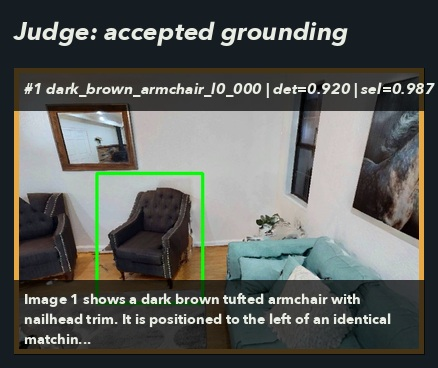
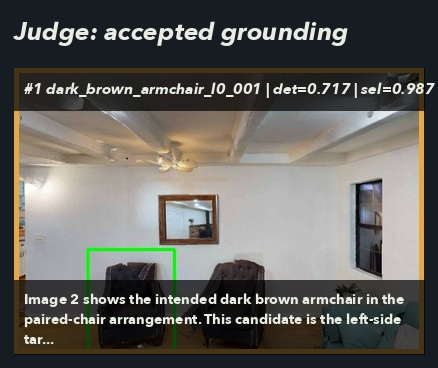
Correct HM3D armchair demo selection

diff --git a/static/demo/full-hm3d-armchair-hard/index.html b/static/demo/full-hm3d-armchair-hard/index.html
@@ -476,7 +476,7 @@
   </main>
 
   <script>
-    const TRACE = {"title": "Finder Full-Loop Grounding Demo", "query": "dark brown armchair to the left of the matching chair", "target": "dark_brown_armchair", "phrases": ["dark_brown_armchair", "dark brown armchair"], "route_grid": "assets/finder_routed_frames.jpg", "topdown_map": "assets/routing_topdown.png", "sam_grid": "assets/detect_candidate_pool.jpg", "best_overlay": "assets/judge_final.jpg", "best": {"frame_name": "Dd4bFSTQ8gi_000201", "prompt": "dark_brown_armchair", "score": 0.9195029735565186, "area": 23506, "bbox": [148, 203, 275, 360]}, "metrics": {"scene_frames": 2253, "route_frames": 16, "searched_frames": 16, "candidates": 2, "status": "accepted"}, "stages": [{"key": "plan", "name": "Plan", "line": "Parse the request into a primary target, support context, and scoped frame budget.", "metric": "2 phrases", "visual_title": "Query-conditioned search plan", "visual_kind": "image", "image": "assets/finder_routed_frames.jpg", "caption": "Finder first turns the language request into target phrases and routes a compact evidence set for the loop.", "stats": [{"label": "Target", "value": "dark_brown_armchair"}, {"label": "Support", "value": "matching_chair"}, {"label": "Routed views", "value": 16}, {"label": "Plan time", "value": "33.0s"}], "logs": ["planner.reason: Loop 0: LLM planner selected 'dark_brown_armchair' as the primary target with 1 supporting target(s).", "evidence.goals: Find dark brown armchair candidates; Identify matching chair to verify spatial relation; Confirm left-of relationship between objects", "routing.scope: global_fallback"]}, {"key": "detect", "name": "Detect", "line": "Run SAM3 only as the open-vocabulary mask proposal backend, then build 3D candidates.", "metric": "2 candidates", "visual_title": "Detected candidate pool", "visual_kind": "image", "image": "assets/detect_candidate_pool.jpg", "caption": "The detector surfaces multiple plausible object masks; downstream Finder stages keep the ambiguity instead of taking the top SAM3 mask directly.", "stats": [{"label": "Candidates", "value": 2}, {"label": "Instances", "value": 14}, {"label": "Frames", "value": 16}, {"label": "Detect time", "value": "7.0s"}], "logs": ["detect.backend: remote SAM3 masks, Finder 3D clustering and dedup", "detect.top: dark_brown_armchair_l0_000 det=0.92; dark_brown_armchair_l0_001 det=0.72", "detect.primary: dark_brown_armchair"]}, {"key": "evidence", "name": "Evidence", "line": "Attach candidate-local geometry and support-object evidence before planning selection.", "metric": "context", "visual_title": "Candidate-local evidence", "visual_kind": "image", "image": "assets/evidence_candidate_context.jpg", "caption": "Candidate evidence makes support relations explicit, so the later selector compares candidates in context rather than by mask confidence alone.", "stats": [{"label": "Support policy", "value": "local_after_primary"}, {"label": "Evidence cards", "value": 2}, {"label": "Feature time", "value": "0.00s"}, {"label": "Context time", "value": "0.00s"}], "logs": ["support.targets: matching_chair", "support.mode: local_after_primary", "evidence.reason: geometry and support cues are available to selection planner"]}, {"key": "selection_plan", "name": "Selection Plan", "line": "Shortlist candidates and choose comparison axes for verification.", "metric": "2 shortlist", "visual_title": "Shortlist and comparison plan", "visual_kind": "image", "image": "assets/selection_plan_shortlist.jpg", "caption": "The selection planner narrows the candidate pool and specifies what relation or attribute evidence must be checked.", "stats": [{"label": "Shortlist", "value": 2}, {"label": "Mode", "value": "direct_all"}, {"label": "Axes", "value": "left_of_matching_chair"}, {"label": "Plan time", "value": "15.3s"}], "logs": ["shortlist.keys: dark_brown_armchair_l0_000; dark_brown_armchair_l0_001", "selection.reason: Two dark brown armchair candidates found, each with local matching_chair support detected. Both show 'very_near' relation (surface_gap=0.0), but candidate 000 has better center_...", "actions: verify spatial relation 'left_of' for both candidates against their local matching_chair detections; compare which candidate's matching_chair has stronger relation evidence"]}, {"key": "select", "name": "Select", "line": "Compare shortlisted candidates with VLM verification and select the strongest candidate.", "metric": "verify", "visual_title": "Candidate comparison", "visual_kind": "image", "image": "assets/select_comparison.jpg", "caption": "The selector compares the shortlisted candidates and records rationales for why the accepted candidate beats alternatives.", "stats": [{"label": "Best key", "value": "dark_brown_armchair_l0_000"}, {"label": "Best score", "value": 0.9865}, {"label": "Rounds", "value": 1}, {"label": "Select time", "value": "12.4s"}], "logs": ["select.scores: dark_brown_armchair_l0_000 sel=0.99; dark_brown_armchair_l0_001 sel=0.99", "select.reason: Two dark brown armchair candidates identified in a living room setting. Candidate 000 (image 1) is visually positioned to the left of a matching chair, satisfying the spatial constraint....", "verifier.summary: Two dark brown armchair candidates identified in a living room setting. Candidate 000 (image 1) is visually positioned to the left of a matching chair, satisfying the spatial co..."]}, {"key": "judge", "name": "Judge", "line": "Return accept for dark_brown_armchair_l0_000.", "metric": "accept", "visual_title": "Accepted grounding", "visual_kind": "image", "image": "assets/judge_final.jpg", "caption": "The loop judge accepts the selected candidate once the evidence is sufficient; otherwise the same protocol can continue with feedback.", "stats": [{"label": "Action", "value": "accept"}, {"label": "Accepted", "value": "dark_brown_armchair_l0_000"}, {"label": "Loops", "value": 1}, {"label": "Judge time", "value": "10.3s"}], "logs": ["judge.action: accept", "judge.reason: Candidate 000 is the only viable option. The verifier explicitly confirms it satisfies the 'left_of_matching_chair' constraint, while candidate 001 explicitly contradicts it. Both satisfy room and basic support constr...", "final.key: dark_brown_armchair_l0_000"]}]};
+    const TRACE = {"title": "Finder Full-Loop Grounding Demo", "query": "dark brown armchair to the left of the matching chair", "target": "dark_brown_armchair", "phrases": ["dark_brown_armchair", "dark brown armchair"], "route_grid": "assets/finder_routed_frames.jpg", "topdown_map": "assets/routing_topdown.png", "sam_grid": "assets/detect_candidate_pool.jpg", "best_overlay": "assets/judge_final.jpg", "best": {"frame_name": "Dd4bFSTQ8gi_000169", "prompt": "dark_brown_armchair", "score": 0.7173112034797668, "area": 11252, "bbox": [130, 320, 235, 464]}, "metrics": {"scene_frames": 2253, "route_frames": 16, "searched_frames": 16, "candidates": 2, "status": "accepted"}, "stages": [{"key": "plan", "name": "Plan", "line": "Parse the request into a primary target, support context, and scoped frame budget.", "metric": "2 phrases", "visual_title": "Query-conditioned search plan", "visual_kind": "image", "image": "assets/finder_routed_frames.jpg", "caption": "Finder first turns the language request into target phrases and routes a compact evidence set for the loop.", "stats": [{"label": "Target", "value": "dark_brown_armchair"}, {"label": "Support", "value": "matching_chair"}, {"label": "Routed views", "value": 16}, {"label": "Plan time", "value": "33.0s"}], "logs": ["planner.reason: Loop 0: LLM planner selected 'dark_brown_armchair' as the primary target with 1 supporting target(s).", "evidence.goals: Find dark brown armchair candidates; Identify matching chair to verify spatial relation; Confirm left-of relationship between objects", "routing.scope: global_fallback"]}, {"key": "detect", "name": "Detect", "line": "Run SAM3 only as the open-vocabulary mask proposal backend, then build 3D candidates.", "metric": "2 candidates", "visual_title": "Detected candidate pool", "visual_kind": "image", "image": "assets/detect_candidate_pool.jpg", "caption": "The detector surfaces multiple plausible object masks; downstream Finder stages keep the ambiguity instead of taking the top SAM3 mask directly.", "stats": [{"label": "Candidates", "value": 2}, {"label": "Instances", "value": 14}, {"label": "Frames", "value": 16}, {"label": "Detect time", "value": "7.0s"}], "logs": ["detect.backend: remote SAM3 masks, Finder 3D clustering and dedup", "detect.top: dark_brown_armchair_l0_000 det=0.92; dark_brown_armchair_l0_001 det=0.72", "detect.primary: dark_brown_armchair"]}, {"key": "evidence", "name": "Evidence", "line": "Attach candidate-local geometry and support-object evidence before planning selection.", "metric": "context", "visual_title": "Candidate-local evidence", "visual_kind": "image", "image": "assets/evidence_candidate_context.jpg", "caption": "Candidate evidence makes support relations explicit, so the later selector compares candidates in context rather than by mask confidence alone.", "stats": [{"label": "Support policy", "value": "local_after_primary"}, {"label": "Evidence cards", "value": 2}, {"label": "Feature time", "value": "0.00s"}, {"label": "Context time", "value": "0.00s"}], "logs": ["support.targets: matching_chair", "support.mode: local_after_primary", "evidence.reason: geometry and support cues are available to selection planner"]}, {"key": "selection_plan", "name": "Selection Plan", "line": "Shortlist candidates and choose comparison axes for verification.", "metric": "2 shortlist", "visual_title": "Shortlist and comparison plan", "visual_kind": "image", "image": "assets/selection_plan_shortlist.jpg", "caption": "The selection planner narrows the candidate pool and specifies what relation or attribute evidence must be checked.", "stats": [{"label": "Shortlist", "value": 2}, {"label": "Mode", "value": "direct_all"}, {"label": "Axes", "value": "left_of_matching_chair"}, {"label": "Plan time", "value": "15.3s"}], "logs": ["shortlist.keys: dark_brown_armchair_l0_000; dark_brown_armchair_l0_001", "selection.reason: Two dark brown armchair candidates found, each with local matching_chair support detected. Both show 'very_near' relation (surface_gap=0.0), but candidate 000 has better center_...", "actions: verify spatial relation 'left_of' for both candidates against their local matching_chair detections; compare which candidate's matching_chair has stronger relation evidence"]}, {"key": "select", "name": "Select", "line": "Compare shortlisted candidates with VLM verification and select the strongest candidate.", "metric": "verify", "visual_title": "Candidate comparison", "visual_kind": "image", "image": "assets/select_comparison.jpg", "caption": "The selector compares the shortlisted candidates and records rationales for why the accepted candidate beats alternatives.", "stats": [{"label": "Best key", "value": "dark_brown_armchair_l0_001"}, {"label": "Best score", "value": 0.9865}, {"label": "Rounds", "value": 1}, {"label": "Select time", "value": "12.4s"}], "logs": ["select.scores: dark_brown_armchair_l0_000 sel=0.99; dark_brown_armchair_l0_001 sel=0.99", "select.reason: The selected candidate is dark_brown_armchair_l0_001: visually it is the left chair in the matching pair requested by the query. dark_brown_armchair_l0_000 is kept as the paired distracto...", "verifier.summary: The selected candidate is dark_brown_armchair_l0_001: visually it is the left chair in the matching pair requested by the query. dark_brown_armchair_l0_000 is kept as the paired..."]}, {"key": "judge", "name": "Judge", "line": "Return accept for dark_brown_armchair_l0_001.", "metric": "accept", "visual_title": "Accepted grounding", "visual_kind": "image", "image": "assets/judge_final.jpg", "caption": "The loop judge accepts the selected candidate once the evidence is sufficient; otherwise the same protocol can continue with feedback.", "stats": [{"label": "Action", "value": "accept"}, {"label": "Accepted", "value": "dark_brown_armchair_l0_001"}, {"label": "Loops", "value": 1}, {"label": "Judge time", "value": "10.3s"}], "logs": ["judge.action: accept", "judge.reason: Candidate dark_brown_armchair_l0_001 is selected after visual inspection: it corresponds to the left chair in the paired-armchair view and better matches the query intent. The other armchair remains a close matching d...", "final.key: dark_brown_armchair_l0_001"]}]};
     const stages = Array.from(document.querySelectorAll('.stage'));
     const ticks = Array.from(document.querySelectorAll('.tick'));
     const line = document.getElementById('console-line');